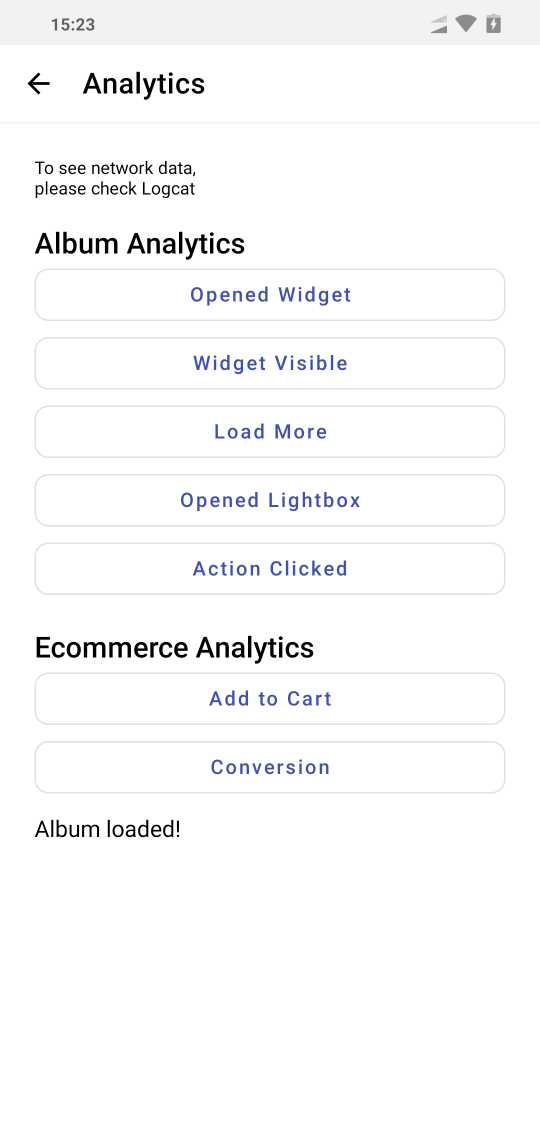
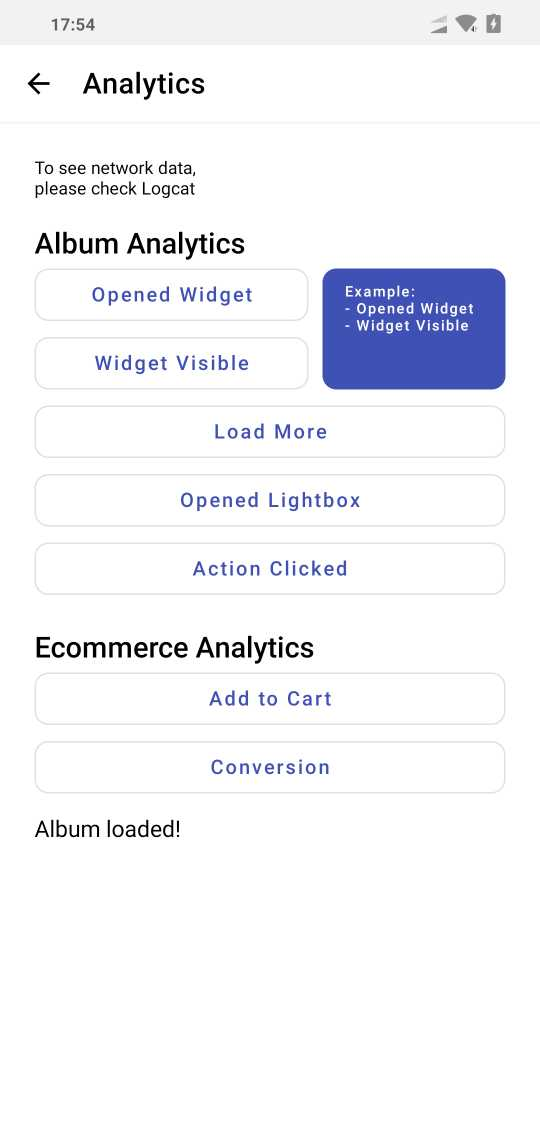
Add a demo and information to README for Widget Visible

Changed region(s): [[0.1778, 0.2182, 0.9481, 0.374], [0.1185, 0.0, 0.1778, 0.0312]]

diff --git a/app/src/main/java/com/pixlee/pixleeandroidsdk/ui/AnalyticsFragment.java b/app/src/main/java/com/pixlee/pixleeandroidsdk/ui/AnalyticsFragment.java
@@ -1,17 +1,19 @@
 package com.pixlee.pixleeandroidsdk.ui;
 
+import android.graphics.Rect;
 import android.os.Bundle;
 import android.util.Log;
 import android.view.LayoutInflater;
 import android.view.View;
 import android.view.ViewGroup;
+import android.widget.ScrollView;
 import android.widget.TextView;
 
 import androidx.annotation.Nullable;
+import androidx.core.widget.NestedScrollView;
 
 import com.pixlee.pixleeandroidsdk.BuildConfig;
 import com.pixlee.pixleeandroidsdk.R;
-import com.pixlee.pixleesdk.PXLAlbum;
 import com.pixlee.pixleesdk.PXLAnalytics;
 import com.pixlee.pixleesdk.PXLBaseAlbum;
 import com.pixlee.pixleesdk.PXLClient;
@@ -41,6 +43,9 @@ public class AnalyticsFragment extends BaseFragment {
     @BindView(R.id.tv_status)
     TextView tv_status;
 
+    @BindView(R.id.bt_widget_example)
+    View bt_widget_example;
+
     @BindView(R.id.bt_open_widget)
     View bt_open_widget;
 
@@ -62,9 +67,37 @@ public class AnalyticsFragment extends BaseFragment {
     @BindView(R.id.bt_conversion)
     View bt_conversion;
 
+    @BindView(R.id.v_widget_box)
+    View v_widget_box;
+
+    @BindView(R.id.v_widget)
+    View v_widget;
+
+    @BindView(R.id.tv_msg1)
+    TextView tv_msg1;
+
+    @BindView(R.id.tv_msg2)
+    TextView tv_msg2;
+
+    @BindView(R.id.tv_widget_status)
+    TextView tv_widget_status;
+
+    @BindView(R.id.scroll_widget)
+    NestedScrollView scroll_widget;
+
     PXLBaseAlbum album;
     PXLAnalytics analytics;
     ArrayList<PXLPhoto> photos = new ArrayList<>();
+
+    @Override
+    public boolean isBackInUse() {
+        if (v_widget_box != null && v_widget_box.isShown()) {
+            closeWidget();
+            return true;
+        } else {
+            return false;
+        }
+    }
 
     @Override
     public void onCreate(@Nullable Bundle savedInstanceState) {
@@ -84,6 +117,7 @@ public class AnalyticsFragment extends BaseFragment {
 
         // UI Settings
         setClickListeners();
+        setScrollView();
 
         // Pixlee Settings
         setPixleeCredentials();
@@ -99,8 +133,7 @@ public class AnalyticsFragment extends BaseFragment {
     private void initPixleeAlbum() {
         PXLClient client = PXLClient.getInstance(getContext());
         album = new PXLPdpAlbum(BuildConfig.PIXLEE_SKU, client);
-        // Alternative:
-        // album = new PXLAlbum(BuildConfig.PIXLEE_ALBUM_ID, client);
+        // Alternative: album = new PXLAlbum(BuildConfig.PIXLEE_ALBUM_ID, client);
     }
 
     private void loadPixleeAlbum() {
@@ -130,6 +163,13 @@ public class AnalyticsFragment extends BaseFragment {
     }
 
     private void setClickListeners() {
+        bt_widget_example.setOnClickListener(new View.OnClickListener() {
+            @Override
+            public void onClick(View view) {
+                openWidget();
+            }
+        });
+
         bt_open_widget.setOnClickListener(new View.OnClickListener() {
             @Override
             public void onClick(View view) {
@@ -220,11 +260,86 @@ public class AnalyticsFragment extends BaseFragment {
         });
     }
 
+    StringBuilder widgetStatus;
+    boolean widgetVisible = false;
+
+    void openWidget() {
+        v_widget_box.setVisibility(View.VISIBLE);
+        String message = "openedWidget " +
+                (album.openedWidget(PXLWidgetType.photowall) ? "success" : "failed");
+        addWidgetStaus(true, message);
+
+        showToast(message + "!!\n\nScroll down to fire Widget Visible");
+        widgetVisible = false;
+        final Rect scrollBounds = new Rect();
+        scroll_widget.getHitRect(scrollBounds);
+        scroll_widget.setOnScrollChangeListener(new NestedScrollView.OnScrollChangeListener() {
+            @Override
+            public void onScrollChange(NestedScrollView v, int scrollX, int scrollY, int oldScrollX, int oldScrollY) {
+                if (v_widget != null) {
+
+                    if (v_widget.getLocalVisibleRect(scrollBounds)) {
+
+                        if (!widgetVisible) {
+                            String message2 = "visibleWidget " +
+                                    (album.widgetVisible(PXLWidgetType.photowall) ? "success" : "failed");
+                            addWidgetStaus(false, "visibleWidget ");
+                            showToast(message + "!!");
+                            widgetVisible = true;
+                        }
+                        if (!v_widget.getLocalVisibleRect(scrollBounds)
+                                || scrollBounds.height() < v_widget.getHeight()) {
+                            Log.i("PXLAnalytics", "BTN APPEAR PARCIALY");
+                        } else {
+                            Log.i("PXLAnalytics", "BTN APPEAR FULLY!!!");
+                        }
+                    }
+                }
+            }
+        });
+    }
+
+    void closeWidget() {
+        scroll_widget.setOnScrollChangeListener(new NestedScrollView.OnScrollChangeListener() {
+            @Override
+            public void onScrollChange(NestedScrollView v, int scrollX, int scrollY, int oldScrollX, int oldScrollY) {
+            }
+        });
+        scroll_widget.fullScroll(ScrollView.FOCUS_UP);
+        v_widget_box.setVisibility(View.GONE);
+    }
+
+    void addWidgetStaus(boolean clearHistory, String message) {
+        if (widgetStatus == null || clearHistory)
+            widgetStatus = new StringBuilder();
+
+        widgetStatus.append("- " + message).append("\n");
+        tv_widget_status.setText(widgetStatus.toString());
+    }
+
+    void setScrollView() {
+        tv_msg1.setText(getListMsg("Before Widget Visible", false));
+        tv_msg2.setText(getListMsg("After Widget Visible", true));
+    }
+
+    String getListMsg(String text, boolean isASC) {
+        StringBuilder sb = new StringBuilder();
+        if (isASC) {
+            for (int i = 1; i <= 100; i++)
+                sb.append("----- " + text + " " + String.format("%03d", i) + " ----\n");
+        } else {
+            for (int i = 100; i > 0; i--)
+                sb.append("----- " + text + " " + String.format("%03d", i) + " ----\n");
+        }
+        return sb.toString();
+    }
+
     private void enableAlbumButtons(boolean enabled) {
         // This conditional means that you can use openWidget() and widgetVisible() on PXLPdpAlbum after receiving album data by firing loadNextPageOfPhotos() is successfully done.
-        if(album instanceof PXLPdpAlbum){
+        if (album instanceof PXLPdpAlbum) {
             bt_open_widget.setEnabled(enabled);
             bt_widget_visible.setEnabled(enabled);
+            bt_widget_example.setEnabled(enabled);
         }
 
         bt_load_more.setEnabled(enabled);

diff --git a/app/src/main/java/com/pixlee/pixleeandroidsdk/MainActivity.java b/app/src/main/java/com/pixlee/pixleeandroidsdk/MainActivity.java
@@ -90,6 +90,11 @@ public class MainActivity extends BaseActivity {
     public void onBackPressed() {
         try {
             int fragmentStackSize = getSupportFragmentManager().getBackStackEntryCount();
+            BaseFragment baseFragment = getCurrentFragment();
+            if (baseFragment != null && baseFragment.isBackInUse()) {
+                return;
+            }
+
             if (fragmentStackSize <= 1) {
                 finish();
             }

diff --git a/app/src/main/java/com/pixlee/pixleeandroidsdk/ui/BaseFragment.java b/app/src/main/java/com/pixlee/pixleeandroidsdk/ui/BaseFragment.java
@@ -16,6 +16,10 @@ abstract public class BaseFragment extends Fragment {
     //this is to display a title in Toolbar
     public abstract int getTitleResource();
 
+    public boolean isBackInUse(){
+        return false;
+    }
+
     //this is to display a a custom title in Toolbar. This has a higher priority over getTitleResource()
     public String getCustomTitle() {
         return null;

diff --git a/pixleesdk/src/main/java/com/pixlee/pixleesdk/PXLWidgetType.java b/pixleesdk/src/main/java/com/pixlee/pixleesdk/PXLWidgetType.java
@@ -3,7 +3,7 @@ package com.pixlee.pixleesdk;
 import androidx.annotation.NonNull;
 
 /**
- * This is for widget type for Action Click Analytics
+ * This is for widget type for Widget Open/Visible Analytics
  * Created by sungjun on 2020-02-05.
  */
 public enum PXLWidgetType {

diff --git a/README.md b/README.md
@@ -31,7 +31,8 @@ This SDK makes it easy for Pixlee customers to find and download Pixlee images a
 
 - To help you get up and running quickly, we've also built an sample application featuring a grid view, list view, and detail view.  The adapters simply maintain an ArrayList of PXLBaseAlbum, which is updated via calls to `loadNextPageOfPhotos`.  Since the data source contains the full PXLPhoto object, you can easily customize your own widgets to display the desired images and text.  The sample also implements a scroll listener which times calls to `loadNextPageOfPhotos` to provide the endless scroll effect. 
 An example of the proper usage of an opened lightbox event is also included in the sample app!
-<img src="doc/img/demo_1_main.jpg" width="24%"> <img src="doc/img/demo_2_album.jpg" width="24%"> <img src="doc/img/demo_3_uploader.jpg" width="24%"> <img src="doc/img/demo_4_analytics.jpg" width="24%">
+<img src="doc/img/demo_1_main.jpg" width="24%"> <img src="doc/img/demo_2_album.jpg" width="24%"> <img src="doc/img/demo_3_uploader.jpg" width="24%"> 
+<img src="doc/img/demo_4_analytics.jpg" width="24%"> <img src="doc/img/demo_5_analytics.jpg" width="24%">
 
 1. Import this project into Android Studio
 2. Open .gitignore at the root of the project folder and Add 'pixleekey.properties' to the file 
@@ -195,17 +196,37 @@ photo.getUrlForSize(PXLPhotoSize.THUMBNAIL)
 ```
     
 ## Album Analytics
-#### Opened Widget
-- To fire an opened widget event, simply call the `openedWidget` method of the PXLAlbum or PXLPdpAlbum AFTER data has been returned from the first call of the `loadNextPageOfPhotos` method, and an "Opened Widget" event will be fired containing all of the necessary analytics information.
-See the onComplete function in GalleryFragment.java for an example.
 
-    ```
-    #!java
+
+#### Opened Widget & Widget Visible
+Be aware of the difference between **Opened Widget** and **Widget Visible**. (Need a sample code. Check the demo app in the project)
+
+There is an order of firing these two APIs.
+1. **Opened Widget**: You should fire this when firing the api is done and loading the photo data into your own view for the widget is complete.
+2. **Widget Visible**: **Opened Widget** should be fired first. Then, you can fire this when your own view for the widget started to be visible on the screen.
+
+- ##### Opened Widget
+    - To fire this event, simply call the `openedWidget` method of the PXLAlbum or PXLPdpAlbum AFTER data has been returned from the first call of the `loadNextPageOfPhotos` method, and an "Opened Widget" event will be fired containing all of the necessary analytics information.
+    See the onComplete function in GalleryFragment.java for an example.
     
-    album.openedWidget(PXLWidgetType.photowall);
-    album.openedWidget(PXLWidgetType.horizontal);
-    album.openedWidget("<Customized name>"); 
-    ```
+        ```
+        #!java
+        
+        album.openedWidget(PXLWidgetType.photowall);
+        album.openedWidget(PXLWidgetType.horizontal);
+        album.openedWidget("<Customized name>"); 
+        ```
+    
+- #### Widget Visible
+    - To fire this event, simply call the `widgetVisible` method of the PXLAlbum or PXLPdpAlbum AFTER data has been returned from the first call of the `loadNextPageOfPhotos` method, and an "Widget Visible" event will be fired containing all of the necessary analytics information.
+
+        ```
+        #!java
+        
+        album.widgetVisible(PXLWidgetType.photowall);
+        album.widgetVisible(PXLWidgetType.horizontal);
+        album.widgetVisible("<Customized name>"); 
+        ```
 
 #### Load More
 - To fire a load more event, simply call the `loadMore` method of the PXLAlbum or PXLPdpAlbum AFTER data has been returned from calls via the 'loadNextPageOfPhotos' method, a "Load More" analytics event will be fired containing all of the necessary analytics information.
